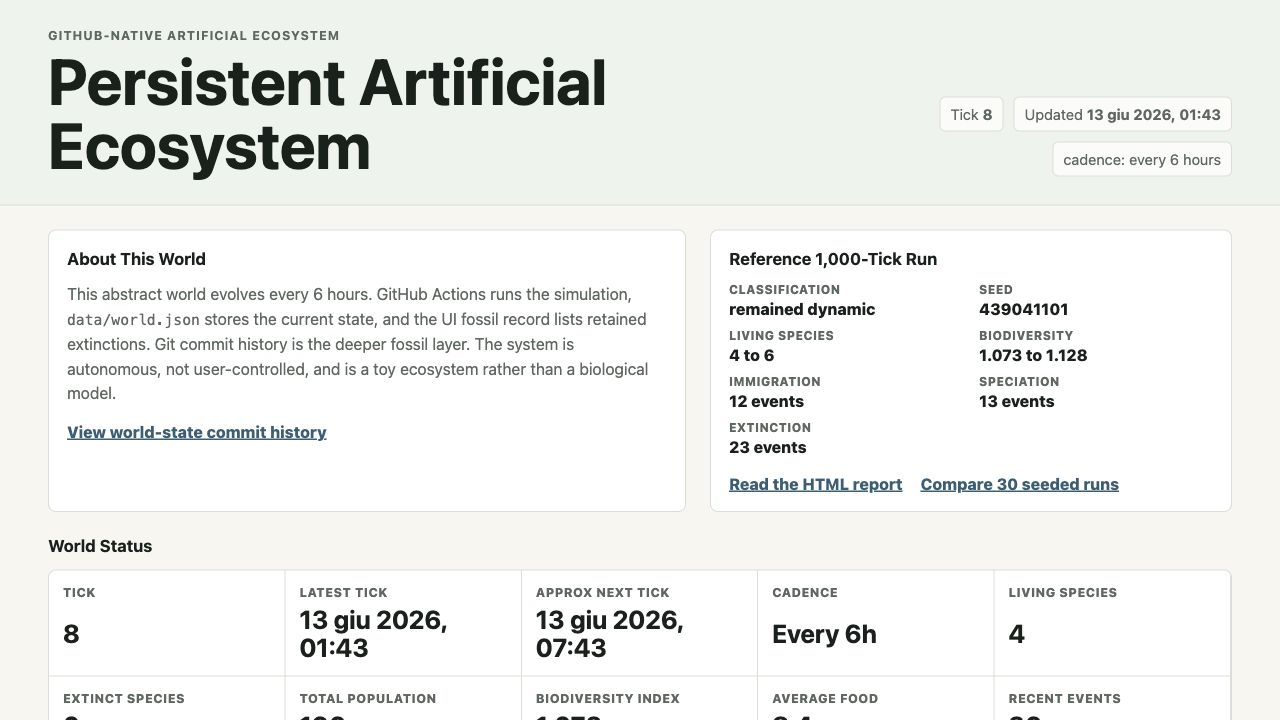
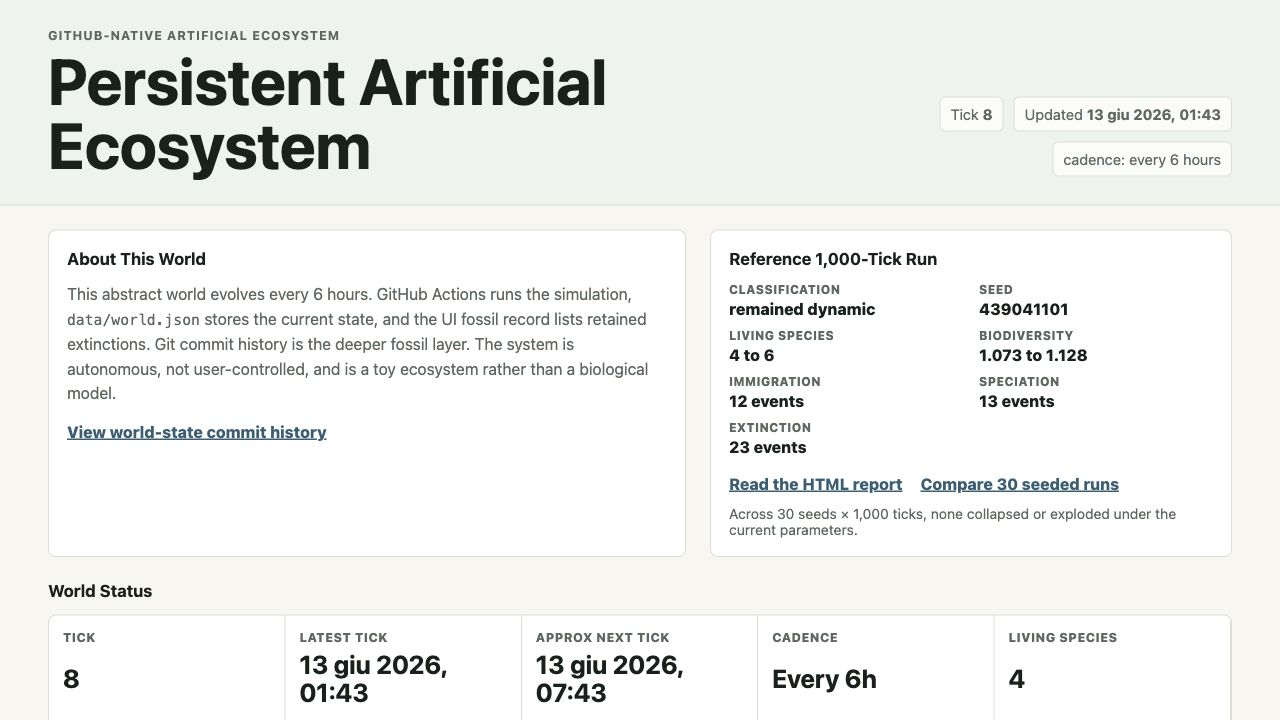
Clarify stability report wording

diff --git a/scripts/stability-summary.js b/scripts/stability-summary.js
@@ -83,6 +83,9 @@ function summarizeRuns(runs, seedCount, ticks) {
     source: "data/world.json",
     seedCount,
     ticksPerSeed: ticks,
+    interpretation: `Across ${seedCount} seeds × ${formatNumber(ticks)} ticks, none collapsed or exploded under the current parameters.`,
+    caveat:
+      "The dynamic label is based on this project's simple classification criteria. It is not proof of general stability.",
     outcomeDistribution,
     statistics: {
       finalLivingSpecies: stats(runs.map((run) => run.finalLivingSpecies)),
@@ -160,7 +163,8 @@ function renderHtml(summary) {
     <main>
       <p class="lede">Generated at ${escapeHtml(summary.generatedAt)} from <code>${escapeHtml(summary.source)}</code></p>
       <h1>Multi-Seed Stability Summary</h1>
-      <p class="note">${summary.seedCount} seeds x ${summary.ticksPerSeed} ticks. This report uses in-memory copies only and does not modify <code>data/world.json</code>.</p>
+      <p class="note">${summary.seedCount} seeds × ${formatNumber(summary.ticksPerSeed)} ticks. This report uses in-memory copies only and does not modify <code>data/world.json</code>.</p>
+      <p class="note"><strong>${escapeHtml(summary.interpretation)}</strong> ${escapeHtml(summary.caveat)}</p>
 
       <h2>Outcome Distribution</h2>
       ${htmlTable(
@@ -181,6 +185,7 @@ function renderHtml(summary) {
       ${htmlTable(["Seed", "Outcome", "Living species", "Biodiversity", "Population", "Immigration", "Speciation", "Extinction"], runRows(summary.notableRuns.best))}
 
       <h2>Classification Criteria</h2>
+      <p class="note">The outcome distribution is a classification under the current simple criteria and parameter set, not a guarantee about all possible seeds, longer runs, or richer ecosystem rules.</p>
       <ul>
         ${Object.entries(summary.classificationCriteria)
           .map(([key, value]) => `<li><strong>${escapeHtml(classificationText(key))}:</strong> ${escapeHtml(value)}</li>`)

diff --git a/reports/stability-summary.html b/reports/stability-summary.html
@@ -20,9 +20,10 @@
   </head>
   <body>
     <main>
-      <p class="lede">Generated at 2026-06-12T18:29:05.981Z from <code>data/world.json</code></p>
+      <p class="lede">Generated at 2026-06-12T20:08:40.949Z from <code>data/world.json</code></p>
       <h1>Multi-Seed Stability Summary</h1>
-      <p class="note">30 seeds x 1000 ticks. This report uses in-memory copies only and does not modify <code>data/world.json</code>.</p>
+      <p class="note">30 seeds × 1,000 ticks. This report uses in-memory copies only and does not modify <code>data/world.json</code>.</p>
+      <p class="note"><strong>Across 30 seeds × 1,000 ticks, none collapsed or exploded under the current parameters.</strong> The dynamic label is based on this project's simple classification criteria. It is not proof of general stability.</p>
 
       <h2>Outcome Distribution</h2>
       <table><thead><tr><th>Outcome</th><th>Runs</th></tr></thead><tbody><tr><td>remained dynamic</td><td>30</td></tr><tr><td>collapsed</td><td>0</td></tr><tr><td>stagnated</td><td>0</td></tr><tr><td>exploded</td><td>0</td></tr></tbody></table>
@@ -37,6 +38,7 @@
       <table><thead><tr><th>Seed</th><th>Outcome</th><th>Living species</th><th>Biodiversity</th><th>Population</th><th>Immigration</th><th>Speciation</th><th>Extinction</th></tr></thead><tbody><tr><td>694987562</td><td>remained dynamic</td><td>8</td><td>1.797</td><td>833</td><td>15</td><td>7</td><td>18</td></tr><tr><td>1958658902</td><td>remained dynamic</td><td>8</td><td>1.703</td><td>1,563</td><td>12</td><td>10</td><td>18</td></tr><tr><td>3030506651</td><td>remained dynamic</td><td>9</td><td>1.678</td><td>947</td><td>18</td><td>14</td><td>27</td></tr><tr><td>3158389045</td><td>remained dynamic</td><td>9</td><td>1.625</td><td>847</td><td>11</td><td>13</td><td>19</td></tr><tr><td>63151892</td><td>remained dynamic</td><td>6</td><td>1.624</td><td>426</td><td>17</td><td>7</td><td>22</td></tr></tbody></table>
 
       <h2>Classification Criteria</h2>
+      <p class="note">The outcome distribution is a classification under the current simple criteria and parameter set, not a guarantee about all possible seeds, longer runs, or richer ecosystem rules.</p>
       <ul>
         <li><strong>collapsed:</strong> No living population, or severe unreplenished diversity loss.</li><li><strong>stagnated:</strong> Low population movement and no ecological turnover.</li><li><strong>exploded:</strong> Runaway population growth.</li><li><strong>remained dynamic:</strong> None of the above; the run keeps population and turnover activity.</li>
       </ul>

diff --git a/styles.css b/styles.css
@@ -162,6 +162,12 @@ code {
   font-weight: 800;
 }
 
+.report-caveat {
+  margin: 12px 0 0;
+  color: var(--muted);
+  font-size: 0.88rem;
+}
+
 .status-section {
   grid-column: 1 / -1;
 }

diff --git a/index.html b/index.html
@@ -40,6 +40,9 @@
           </dl>
           <a href="reports/long-run-1000.html">Read the HTML report</a>
           <a href="reports/stability-summary.html">Compare 30 seeded runs</a>
+          <p class="report-caveat">
+            Across 30 seeds × 1,000 ticks, none collapsed or exploded under the current parameters.
+          </p>
         </aside>
       </section>
 

diff --git a/README.md b/README.md
@@ -78,7 +78,9 @@ Run a multi-seed stability sweep:
 node scripts/stability-summary.js
 ```
 
-By default this tests 30 seeds x 1,000 ticks and writes `reports/stability-summary.json` and `reports/stability-summary.html`.
+By default this tests 30 seeds × 1,000 ticks and writes `reports/stability-summary.json` and `reports/stability-summary.html`.
+
+The current reference sweep should be read modestly: Across 30 seeds × 1,000 ticks, none collapsed or exploded under the current parameters. The `dynamic` label comes from the project's simple classification criteria, not from a proof of general ecological stability.
 
 ## GitHub Pages Deployment
 